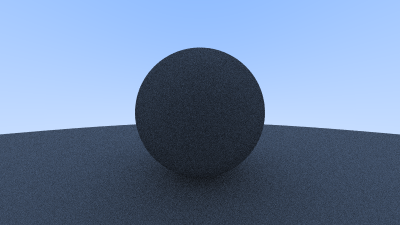
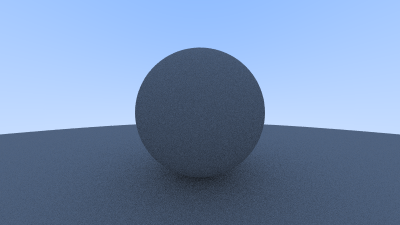
Shadow acne fix

diff --git a/include/camera.hpp b/include/camera.hpp
@@ -68,7 +68,7 @@ class Camera {
             return Color{0, 0, 0};
         }
 
-        const auto record = world.hit(ray, Interval{0, s_infinity});
+        const auto record = world.hit(ray, Interval{0.001, s_infinity});
 
         if (record) {
             const auto direction = randomOnHemisphere(record->normal);
